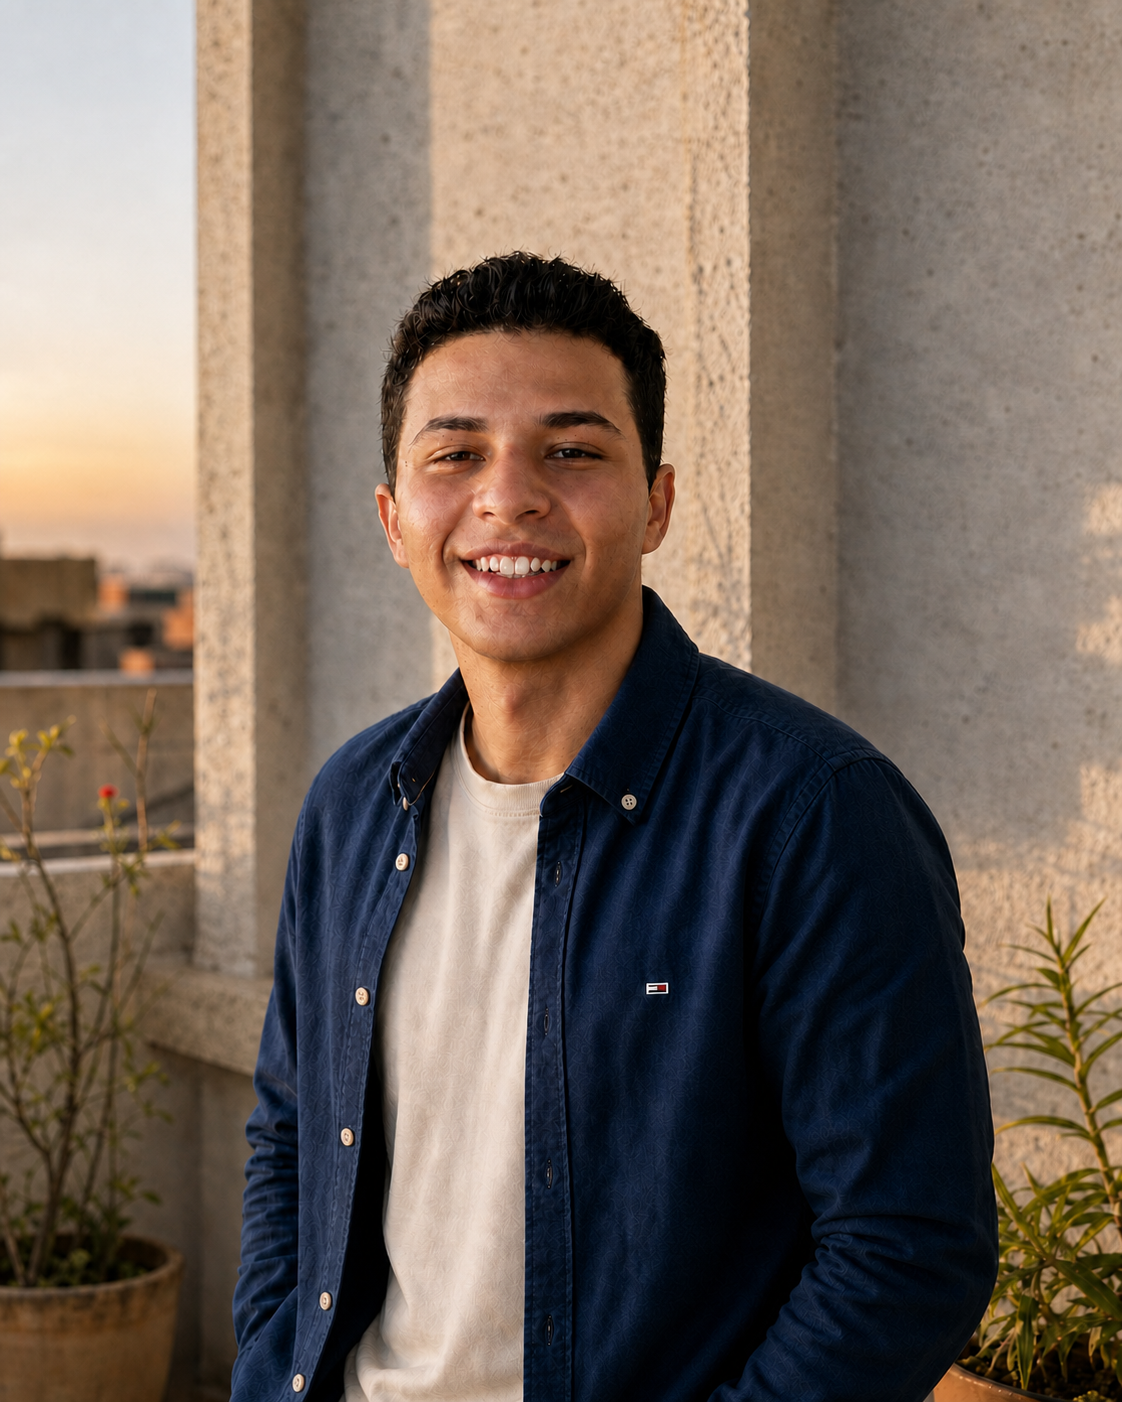
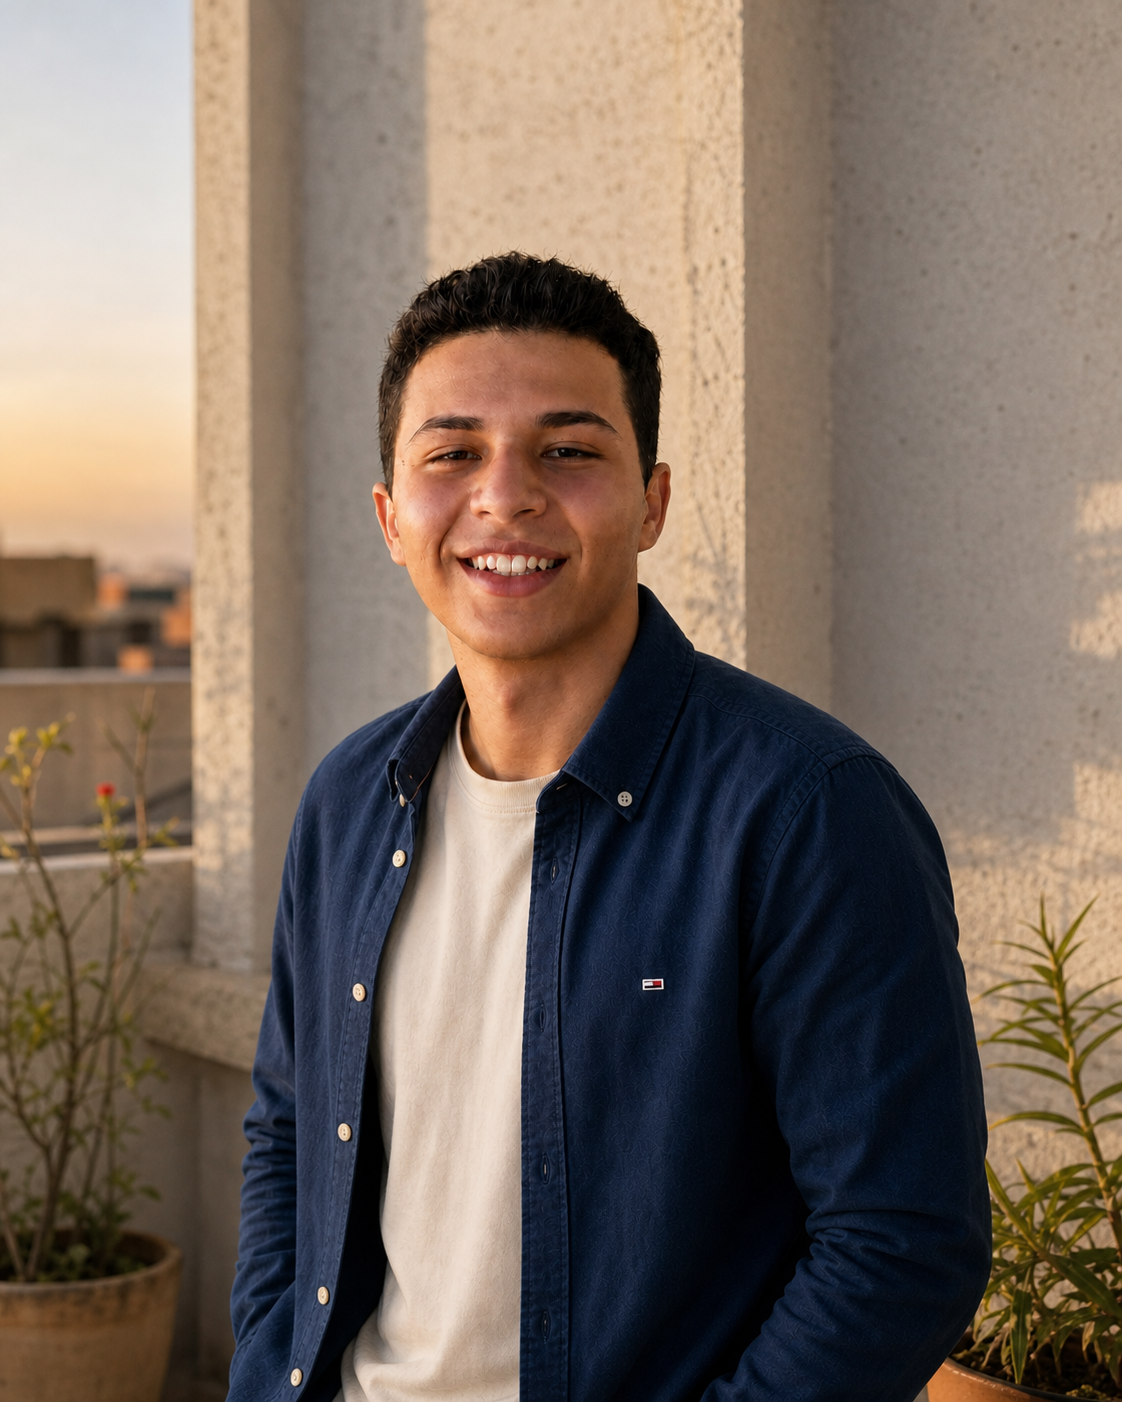
Refresh portfolio portraits and home image framing

diff --git a/index.html b/index.html
@@ -12,7 +12,7 @@
   <link rel="preconnect" href="https://fonts.gstatic.com" crossorigin>
   <link href="https://fonts.googleapis.com/css2?family=DM+Serif+Display:ital@0;1&family=Space+Grotesk:wght@300;400;500;700&family=JetBrains+Mono:wght@400;500;700&family=IBM+Plex+Sans+Arabic:wght@300;400;500;700&family=Aref+Ruqaa:wght@400;700&display=swap" rel="stylesheet">
   <link rel="stylesheet" href="css/vendor/scrollcraft.css?v=32">
-  <link rel="stylesheet" href="css/style.css?v=31">
+  <link rel="stylesheet" href="css/style.css?v=39">
 </head>
 <body class="is-loading" aria-busy="true">
 <a class="skip-link" href="#app">Skip to content</a>
@@ -202,7 +202,7 @@
       <p class="story-lead" data-i18n="story.statement" data-sc-cue="0.08 0.48">I turn complicated ideas into clear digital products people can actually use. That includes websites, mobile apps, business tools, and AI automations.</p>
       <p class="story-serif" data-i18n="story.closing" data-sc-cue="0.24 0.66">Simple to understand. Reliable after launch.</p>
       <p class="role-chip" data-sc-cue="0.42 0.82"><span data-i18n="experience.nova_role">Freelance AI developer</span><em data-i18n="experience.nova_period">Assiut, Egypt</em></p>
-      <figure class="story-portrait" data-sc-reveal="up" data-sc-reveal-at="0.08 0.42"><img src="assets/kareem-social-session-v1.png" alt="Kareem Ahmed at his desk"></figure>
+      <figure class="story-portrait" data-sc-reveal="up" data-sc-reveal-at="0.08 0.42"><img src="assets/kareem-social-session-v1.png?v=39" alt="Kareem Ahmed at his desk"></figure>
     </section>
 
     <section class="strip" data-sc-act="flow">
@@ -388,7 +388,7 @@
     </section>
 
     <section class="about-intro">
-      <figure class="about-portrait"><img src="assets/kareem-social-session-v2.png" alt="Portrait of Kareem Ahmed"></figure>
+      <figure class="about-portrait"><img src="assets/kareem-social-session-v2.png?v=35" alt="Portrait of Kareem Ahmed"></figure>
       <div class="about-copy">
         <p data-i18n="profile.copy">I plan, design, and build complete digital products. I explain decisions clearly and test the finished work before I hand it over.</p>
         <dl class="signals">
@@ -590,6 +590,6 @@
 
 <noscript><style>.loader{display:none}.view[hidden]{display:block!important}</style></noscript>
 <script src="js/vendor/scrollcraft.js?v=32"></script>
-  <script src="js/main.js?v=32"></script>
+  <script src="js/main.js?v=39"></script>
 </body>
 </html>

diff --git a/css/style.css b/css/style.css
@@ -1111,15 +1111,15 @@ html[dir="rtl"] .signals div { grid-template-columns: 8rem 1fr; }
    A photographic, earth-toned system replaces the synthetic sky treatment.
    ============================================================ */
 :root {
-  --ground: #E8DCC7;
-  --ground-2: #D4B895;
-  --sand: #B08B6E;
-  --ink: #394326;
-  --ink-soft: #606C38;
-  --line: color-mix(in srgb, #606C38 28%, transparent);
-  --display-c: #E8DCC7;
+  --ground: #F8F3EB;
+  --ground-2: #EEE5D8;
+  --sand: #D5BFA4;
+  --ink: #292722;
+  --ink-soft: #746C60;
+  --line: color-mix(in srgb, #746C60 28%, transparent);
+  --display-c: #FFF9E9;
   --accent: #C66B3D;
-  --card: #D4B895;
+  --card: #FFFDF9;
   --f-display: "Epilogue", system-ui, sans-serif;
   --f-body: "Epilogue", system-ui, sans-serif;
   --f-mono: "Epilogue", system-ui, sans-serif;
@@ -1127,13 +1127,13 @@ html[dir="rtl"] .signals div { grid-template-columns: 8rem 1fr; }
 }
 
 html[data-theme="night"] {
-  --ground: #606C38;
-  --ground-2: #8B9D83;
-  --sand: #B08B6E;
-  --ink: #E8DCC7;
-  --ink-soft: #D4B895;
-  --line: color-mix(in srgb, #E8DCC7 30%, transparent);
-  --card: #8B9D83;
+  --ground: #151A20;
+  --ground-2: #202832;
+  --sand: #35404A;
+  --ink: #F3EEE5;
+  --ink-soft: #B8B1A6;
+  --line: color-mix(in srgb, #F3EEE5 30%, transparent);
+  --card: #202832;
 }
 
 body {
@@ -1463,8 +1463,12 @@ html[data-theme="night"] .dial:not(.is-on) .dial-label { color: #F3EEDF; }
 }
 .story-portrait.in { opacity: 1; transform: none; }
 .story-portrait img {
+  display: block;
+  width: 100%;
   aspect-ratio: 16/9;
+  height: auto;
   object-fit: cover;
+  object-position: center 28%;
   transform: scale(calc(1 + (1 - var(--sc-reveal-progress, 1)) * .035));
   transform-origin: 50% 50%;
   will-change: transform;
